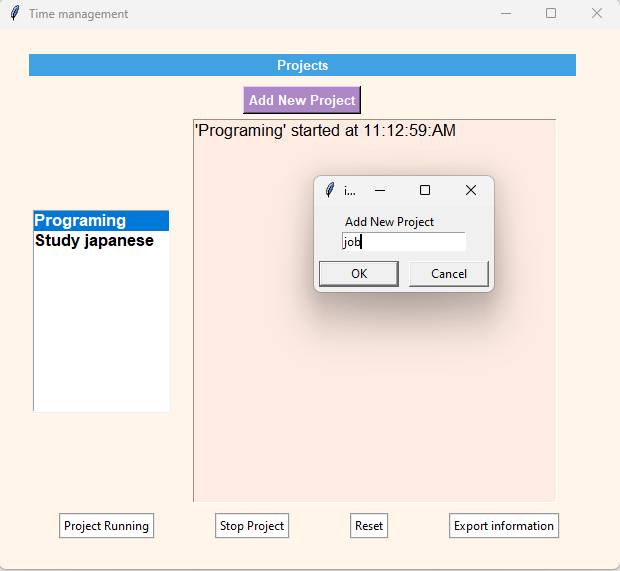
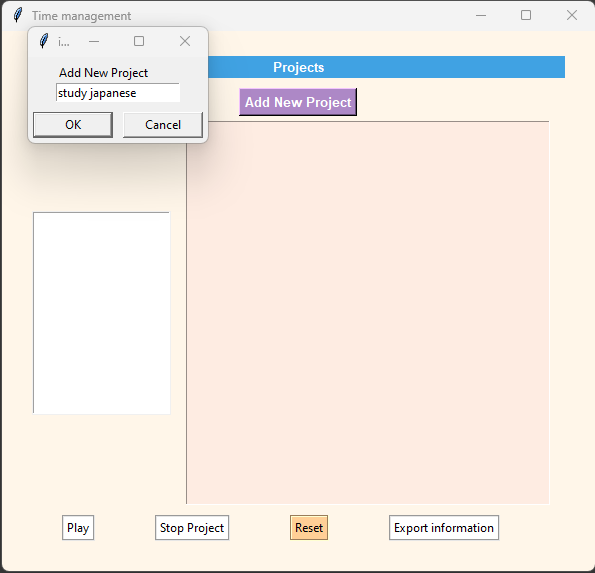
control de errores y fallas por parte del usuario

diff --git a/main.py b/main.py
@@ -10,11 +10,13 @@ BEIGE="#FFF6E9"
 BLUE="#40A2E3"
 PURPLE="#AD88C6"
 PEACH="#FEECE2"
+ORANGE="#FFCF96"
 index=1
 overall_hours=0
 overall_minutes=0
 overall_seconds=0
-
+#esta variable comprobara que el "start time" haya sido chequiado
+running=False
 
 #TODO: CONFIGURACION DE LA VENTANA
 window=Tk()
@@ -56,7 +58,7 @@ def start_time():
     global start_hour
     global start_minute
     global start_seconds
-            
+    global running        
     # Selecciona un ítem de la lista (el que esté seleccionado en ese momento), al oprimir el boton play
     task_get=task_list.get(ANCHOR).capitalize()
     
@@ -65,7 +67,10 @@ def start_time():
         messagebox.showerror("showerror", "there is not task selected")               
     
     #si el usuario selecciono tarea
-    else:    
+    else:
+        #cambiamos el valor de la variable de 'False' a 'True' para indicar que el tiempo de inicio fue calculado
+        running=True
+            
         #seleccionado el item del listbox con exito y se imprime en consola
         print(f'the selected item by the user is {task_get}')
         
@@ -111,51 +116,65 @@ def stop():
     global overall_hours
     global overall_minutes
     global overall_seconds
+    global running
+    #mostrar error en pantalla en caso de que el usuario de click a 'play' sin seleccionar una tarea
+    if task_get=="":
+        messagebox.showerror("showerror", "You haven't started any projects.")               
     
-    # Obtiene la hora actual
-    current_time=datetime.datetime.now()
+    #si el usuario selecciono tarea
+    elif running==True:
+        
+        #cambiamos el valor de 'True' a 'False' para indicar que el tiempo de ejecucion del proyecto ya se detuvbo
+        running=False
+        # Cambia el texto del botón "play" de "Project Running" a nuevamente "play"
+        play_button.config( text="Play")
+        
+        # Obtiene la hora actual
+        current_time=datetime.datetime.now()
+        
+        # Formatea la hora actual en el formato de 12 horas con AM/PM
+        stop_time=current_time.strftime("%I:%M:%S:%p")      
+        
+        # Crea una cadena de texto con la tarea seleccionada y la hora de inicio
+        data = f"'\n'{task_get}' ended at {stop_time}"
+        
+        # Inserta la cadena de texto creada en el widget "duration_report"
+        duration_report.insert(INSERT, data)
+        
+        # Imprime en consola la hora actual (en formato de 24 horas), para hacer los calculos matematicos mas facilmente
+        end_hour=int((current_time.strftime("%H")))
+        print(type(end_hour))
+        print(end_hour)
+        
+        # Imprime en consola los minutos actuales
+        end_minute=int((current_time.strftime("%M")))
+        print(type(end_minute))
+        print(end_minute)
+        
+        # Imprime en consola los segundos actuales
+        end_seconds=int((current_time.strftime("%S")))
+        print(type(end_seconds))
+        print(end_seconds)
+        
+        #calculando el tiempo que duro la seccion de proyecto
+        total_hours=start_hour-end_hour
+        total_minutes=start_minute-end_minute
+        total_seconds=start_seconds-end_seconds
+        total_time=f"\n'{task_get}' Session duration: {abs((total_hours))} h, {abs((total_minutes))} min, {abs((total_seconds))} s\n"
+        
+        #calculando el tiempo total empleado hasta hora en todas las sessiones
+        overall_hours += total_hours
+        overall_minutes += total_minutes
+        overall_seconds += total_seconds
+        overall_time=f"\n***Total Report: {abs((overall_hours))} h, {abs((overall_minutes))} min, {abs((overall_seconds))} s\n \n"     
+        
+        #muestro el tiempo total empleado en la tarea al usuario en el widget "duration_report"
+        duration_report.insert(INSERT, total_time)
+        duration_report.insert(INSERT, overall_time)
     
-    # Formatea la hora actual en el formato de 12 horas con AM/PM
-    stop_time=current_time.strftime("%I:%M:%S:%p")      
-    
-    # Crea una cadena de texto con la tarea seleccionada y la hora de inicio
-    data = f"'\n'{task_get}' ended at {stop_time}"
-    
-    # Inserta la cadena de texto creada en el widget "duration_report"
-    duration_report.insert(INSERT, data)
-    
-    # Imprime en consola la hora actual (en formato de 24 horas), para hacer los calculos matematicos mas facilmente
-    end_hour=int((current_time.strftime("%H")))
-    print(type(end_hour))
-    print(end_hour)
-    
-    # Imprime en consola los minutos actuales
-    end_minute=int((current_time.strftime("%M")))
-    print(type(end_minute))
-    print(end_minute)
-    
-    # Imprime en consola los segundos actuales
-    end_seconds=int((current_time.strftime("%S")))
-    print(type(end_seconds))
-    print(end_seconds)
-    
-    #calculando el tiempo que duro la seccion de proyecto
-    total_hours=start_hour-end_hour
-    total_minutes=start_minute-end_minute
-    total_seconds=start_seconds-end_seconds
-    total_time=f"\n'{task_get}' Session duration: {abs((total_hours))} h, {abs((total_minutes))} min, {abs((total_seconds))} s\n"
-    
-    #calculando el tiempo total empleado hasta hora en todas las sessiones
-    overall_hours += total_hours
-    overall_minutes += total_minutes
-    overall_seconds += total_seconds
-    overall_time=f"\n***Total Report: {abs((overall_hours))} h, {abs((overall_minutes))} min, {abs((overall_seconds))} s\n \n"     
-    
-    #muestro el tiempo total empleado en la tarea al usuario en el widget "duration_report"
-    duration_report.insert(INSERT, total_time)
-    duration_report.insert(INSERT, overall_time)
-    
-
+    else:
+        messagebox.showerror("showerror", "Start a project first") 
+        
 #TODO: FUNCION QUE RESETEA EL TEXTO WIDGET COMO LOS TIEMPOS
 def reset():
     global overall_hours
@@ -173,9 +192,10 @@ def reset():
     
 #TODO: FUNCION QUE EXPORTA LA INFORMACION DEL   TEXTO WIDGER A .TXT FILE
 def export():
+    # Abre un cuadro de diálogo para guardar un archivo con la extensión predeterminada '.txt'
     file=asksaveasfile(defaultextension='.txt')
     
-    # msg="mensaje de prueba"
+    # Obtiene el contenido del widget 'duration_report' desde el inicio ('1.0') hasta el final ('end')
     text_widget_data=duration_report.get("1.0", "end")
     file.write(text_widget_data)
 
@@ -228,7 +248,7 @@ stop_button=Button(bottom_buttons_frame, text="Stop Project", bg="white", relief
 stop_button.grid(row=0, column=2, padx=30, pady=5)
 
 #boton de resetar la informacion del 'text widget'
-reset_button=Button(bottom_buttons_frame, text="Reset", bg="white", relief=GROOVE, command=reset)
+reset_button=Button(bottom_buttons_frame, text="Reset", bg=ORANGE, relief=GROOVE, command=reset)
 reset_button.grid(row=0, column=3, padx=30, pady=5)
 
 
@@ -237,7 +257,7 @@ export_information=Button(bottom_buttons_frame, text="Export information", bg="w
 export_information.grid(row=0, column=4, padx=30, pady=5)
 
 #TODO: CREANDO TEXT WIDGET PARA MOSTRAR INFORMACION AL USER DEL TIEMPO DE DURACION DE CADA TAREA
-duration_report=Text(window, bg=PEACH, width=40,height=20, font=("Arial", 13))
+duration_report=Text(window, bg=PEACH, width=50,height=20, font=("Arial", 13))
 duration_report.grid(row=2, column=1, padx=15)
                         
                         
